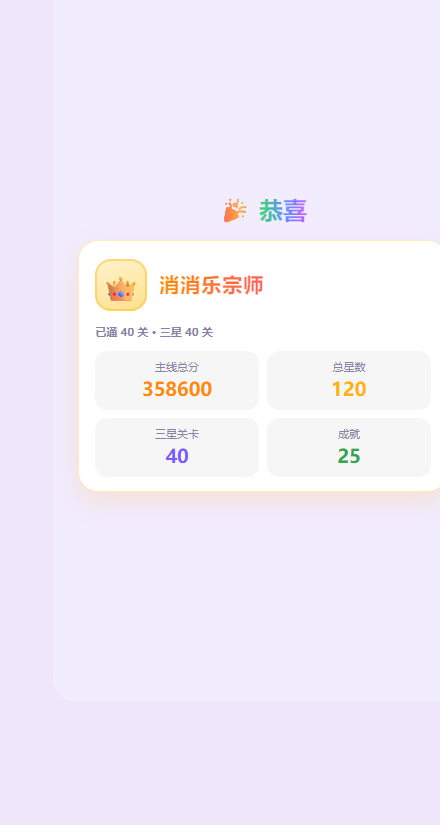
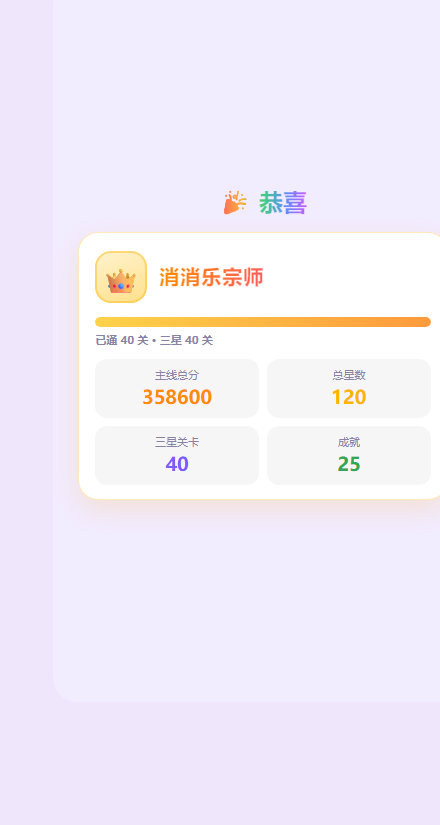
Update files

diff --git a/index.html b/index.html
@@ -12,8 +12,8 @@
 <link rel="preload" as="image" type="image/webp" href="./assets/4.webp">
 <link rel="preload" as="image" type="image/webp" href="./assets/5.webp">
 <link rel="preload" as="image" type="image/png" href="./assets/nailong.png">
-<link rel="stylesheet" href="./css/style.css?v=20261108k">
-<link rel="stylesheet" href="./css/themes.css?v=20261108k">
+<link rel="stylesheet" href="./css/style.css?v=20261108l">
+<link rel="stylesheet" href="./css/themes.css?v=20261108l">
 </head>
 <body data-theme="grass" data-view="menu">
 <div class="game-container">
@@ -768,6 +768,7 @@
           <b id="master-title">消消乐学徒</b>
         </div>
       </div>
+      <div class="master-bar"><span id="master-bar-fill"></span></div>
       <p class="master-progress" id="master-progress">已通 0 关 · 三星 0 关</p>
       <div class="master-grid">
         <div class="master-item"><span>主线总分</span><b id="complete-total-score">0</b></div>
@@ -970,22 +971,22 @@
   </div>
 </div>
 
-<script src="./js/rng.js?v=20261108k"></script>
-<script src="./js/storage.js?v=20261108k"></script>
-<script src="./js/audio.js?v=20261108k"></script>
-<script src="./js/effects.js?v=20261108k"></script>
-<script src="./js/specials.js?v=20261108k"></script>
-<script src="./js/goals.js?v=20261108k"></script>
-<script src="./js/tasks.js?v=20261108k"></script>
-<script src="./js/mail.js?v=20261108k"></script>
-<script src="./js/input.js?v=20261108k"></script>
-<script src="./js/builtin-music.js?v=20261108k"></script>
-<script src="./js/music.js?v=20261108k"></script>
-<script src="./js/meta.js?v=20261108k"></script>
-<script src="./js/cloud-config.js?v=20261108k"></script>
-<script src="./js/cloud.js?v=20261108k"></script>
-<script src="./js/account.js?v=20261108k"></script>
-<script src="./js/board.js?v=20261108k"></script>
-<script src="./js/game.js?v=20261108k"></script>
+<script src="./js/rng.js?v=20261108l"></script>
+<script src="./js/storage.js?v=20261108l"></script>
+<script src="./js/audio.js?v=20261108l"></script>
+<script src="./js/effects.js?v=20261108l"></script>
+<script src="./js/specials.js?v=20261108l"></script>
+<script src="./js/goals.js?v=20261108l"></script>
+<script src="./js/tasks.js?v=20261108l"></script>
+<script src="./js/mail.js?v=20261108l"></script>
+<script src="./js/input.js?v=20261108l"></script>
+<script src="./js/builtin-music.js?v=20261108l"></script>
+<script src="./js/music.js?v=20261108l"></script>
+<script src="./js/meta.js?v=20261108l"></script>
+<script src="./js/cloud-config.js?v=20261108l"></script>
+<script src="./js/cloud.js?v=20261108l"></script>
+<script src="./js/account.js?v=20261108l"></script>
+<script src="./js/board.js?v=20261108l"></script>
+<script src="./js/game.js?v=20261108l"></script>
 </body>
 </html>

diff --git a/test-smoke.js b/test-smoke.js
@@ -2132,13 +2132,14 @@ function check(name, ok) {
       /'auth-menu', 'auth-form', 'fix-menu', 'nick-menu', 'cloud-menu'\]\.indexOf\(ov\.id\) >= 0/
         .test(fs.readFileSync(path.join(__dirname, 'js', 'music.js'), 'utf8'));
   })());
-  check('成绩单：恢复原始形状（无 master-stage 包裹、无底部文案、无进度线）', (() => {
+  check('成绩单：恢复原始形状（无 master-stage 包裹、无底部文案），进度线保留且一直满格', (() => {
     const gc = htmlSrc.slice(htmlSrc.indexOf('id="game-complete"'), htmlSrc.indexOf('id="chapters-menu"'));
     return !gc.includes('master-stage') && !gc.includes('master-foot') &&
-      !gc.includes('master-bar') &&
       !gc.includes('继续闯关') && !gc.includes('满分毕业') &&
+      gc.includes('master-bar') &&
       !/#game-complete \.master-stage \{/.test(cssSrc) && !/\.master-foot \{/.test(cssSrc) &&
-      !/\.master-bar \{/.test(cssSrc) && !/master-bar-fill/.test(jsSrc);
+      /\.master-bar span\s*\{[^}]*width:\s*100%/.test(cssSrc) &&
+      !/master-bar-fill/.test(jsSrc);
   })());
   check('每日任务尽量不重样：上一批出过的排到候选队尾，通常整批换新', (() => {
     const saved = lsMap.get('nl2:tasks');
@@ -2241,7 +2242,8 @@ function check(name, ok) {
   check('成绩单标题改成「🎉 恭喜」，没有副标题、四格数字都滚动', (() => {
     const fn = jsSrc.slice(jsSrc.indexOf('function showCompletePanel'), jsSrc.indexOf('function levelHasCandy'));
     return !htmlSrc.includes('恭喜全通关') && htmlSrc.includes('🎉 恭喜') &&
-      htmlSrc.includes('id="master-title"') && !htmlSrc.includes('id="master-bar-fill"') &&
+      htmlSrc.includes('id="master-title"') &&
+      htmlSrc.includes('id="master-bar-fill"') &&
       htmlSrc.includes('id="complete-total-score"') && htmlSrc.includes('id="complete-total-stars"') &&
       htmlSrc.includes('id="master-perfect"') && htmlSrc.includes('id="master-ach"') &&
       !htmlSrc.includes('id="master-sub"') && !fn.includes('master-sub') &&

diff --git a/css/themes.css b/css/themes.css
@@ -2151,8 +2151,23 @@ body[data-skin="black"]   { --skin-target-bg: rgba(255, 143, 171, 0.22); }
   font-size: 11px;
   color: #9a93ad;
 }
+.master-bar {
+  height: 10px;
+  margin: 14px 0 6px;
+  border-radius: 999px;
+  background: rgba(0, 0, 0, 0.06);
+  overflow: hidden;
+}
+/* 这条线一直是满的（不是进度指示） */
+.master-bar span {
+  display: block;
+  height: 100%;
+  width: 100%;
+  border-radius: 999px;
+  background: linear-gradient(90deg, #ffd24a, #ff9a3c);
+}
 .master-progress {
-  margin: 14px 0 12px;
+  margin: 0 0 12px;
   font-size: 11px;
   font-weight: 700;
   color: #8a82a6;

diff --git a/_preview/master-titles.html b/_preview/master-titles.html
@@ -40,6 +40,7 @@ TITLES.forEach((t) => {
     '<div class="master-card">' +
       '<div class="master-head"><span class="master-crown">' + t.crown + '</span>' +
       '<div class="master-title-box"><b>' + t.name + '</b></div></div>' +
+      '<div class="master-bar"><span></span></div>' +
       '<p class="master-progress">已通 ' + t.cleared + ' 关 · 三星 ' + t.perfect + ' 关</p>' +
       '<div class="master-grid">' +
         '<div class="master-item"><span>主线总分</span><b>' + t.score + '</b></div>' +

diff --git a/README.md b/README.md
@@ -31,7 +31,7 @@
 - **糖果货物（第四章开始）**：运送关（`cargo > 0`）的货物从 **id ≥ 31（第四章）** 起混入糖果：`putCargo` 一半钥匙 + 一半糖果（`placeObstacles` 里按 `Math.ceil/floor` 拆分），糖果徽标 `drawCandyMark()` 纯 Canvas 路径画（圆糖体 + 两端分叉糖纸 + 斜条纹 + 黑描边 + 粉色呼吸光），送达浮字是「送达 🍬」。目标数照常按「总送达数」算（`syncGoalFromBoard` 里糖果和钥匙同走 `else` 分支），目标栏文案在 `S.goal.hasCandy` 时从「运送钥匙」换成「运送糖果 🍬」（`goals.js barText`）。
 - **货物掉落规则（2026-11-07 二次修改）**：货物所在方块被消时，它**落到本列下面离它最近的一个没被消掉的方块上**（`resolveClear` 里在 `dropAndFill()` 之前落位——放在重力后面找就只能找到最底行，会退化成直接送达），之后跟着那个方块被重力一步步往下带，真的到了最底行（`collectCargo`）才算送达；**被消的那一刻下面一个方块都没有（整列空了）才直接算运送成功**。送达结算统一走新抽出的 `deliverCargo(items, c)`（浮字 / 音效 / `cargoLeft` / 目标推进），底行收集和「无方块直送」共用这一份。旧的「直达最底行 = 直接送达」逻辑和测试（17c / 26）已按新规则改写，并补了「整列没方块直送」的测试（26b）。
 - **运送进度存档恢复**：暂停 / 中途退出再续玩，目标栏仍是原来的进度（如「运送钥匙 1/7」），不会变成「棋盘上有几个就 0/几」——`saveRun` 的 `goalCurrent` 现在连 `iceCleared` / `cargoGot` / `rescueGot` 一起存，`loadRun` 原样恢复后再 `syncGoalFromBoard()`（target = 已送达 + 场上剩），不再把已送达数清零重算；没有这些字段的老存档保持旧的清零兜底。
-- **「🎉 恭喜」成绩单（2026-11-08 三改）**：结算画面不再是「恭喜全通关」的毕业页——关卡记录右下角常驻的「结算」键（`#btn-replay-ending`，小号黄色胶囊，右下角 16px）随时能进来，所以页面标题就叫 **🎉 恭喜**，做成一份随时可看的主线成绩单：称号（学徒 → 新星 → 达人 → 高手 → 大师 → 全三星「宗师」，不再带副标题一句话）+ 四格数据（主线总分 / 总星数 / 三星关卡 / 成就点亮数，**四个数字全部 900ms 同时长滚动**）。**页面只有标题 + 一张白卡片，卡片保持原来的形状（88% 宽 / 20px 圆角 / 原内边距，不额外包裹、不改尺寸）**，卡片垂直居中、标题在卡片上方；**没有进度线**（按你的要求已删）、**没有底部文案**。**文案里不写「/ 总数」也不写毕业口吻**：进度写「已通 X 关 · 三星 X 关」，三星关卡和成就只写自己拿到的数。数据每次打开都按最新存档现算（`showCompletePanel`）。最后一关打完也不再自动弹这个画面；面板上没有「回到主页」键，点任意处退出回「关卡记录」。
+- **「🎉 恭喜」成绩单（2026-11-08 三改）**：结算画面不再是「恭喜全通关」的毕业页——关卡记录右下角常驻的「结算」键（`#btn-replay-ending`，小号黄色胶囊，右下角 16px）随时能进来，所以页面标题就叫 **🎉 恭喜**，做成一份随时可看的主线成绩单：称号（学徒 → 新星 → 达人 → 高手 → 大师 → 全三星「宗师」，不再带副标题一句话）+ 橙色横线 + 四格数据（主线总分 / 总星数 / 三星关卡 / 成就点亮数，**四个数字全部 900ms 同时长滚动**）。**页面只有标题 + 一张白卡片，卡片保持原来的形状（88% 宽 / 20px 圆角 / 原内边距，不额外包裹、不改尺寸）**，卡片垂直居中、标题在卡片上方；卡片里那条橙色横线**保留且一直是满格**（只作装饰，不代表进度，`width: 100%`、没有动画）；**没有底部文案**。**文案里不写「/ 总数」也不写毕业口吻**：进度写「已通 X 关 · 三星 X 关」，三星关卡和成就只写自己拿到的数。数据每次打开都按最新存档现算（`showCompletePanel`）。最后一关打完也不再自动弹这个画面；面板上没有「回到主页」键，点任意处退出回「关卡记录」。
 - **榜单列对齐（2026-11-08 改固定列）**：榜单行不再用 flex（名字长短 / 星星位数会把后面的列挤偏），改成**固定列宽的 grid**：`.lb-swipe.col4` = 名次 26px · 名字自适应 · 42px 空档 · 星星 40px · 分数 **6ch**，列间 8px；星星列、分数列内容都左对齐 → **星星左边缘一条竖线、分数左边缘一条竖线**，任何名字、任何位数都不会挤偏。中间的空档让**星星和分数整体往右挪**（28px 空档 = 三个字，之后**又把星星列再往右挪了「榜一星星与分数空档的一半」≈ 14px**：空档 28→42、星星列 54→40）。**分数列宽 = 6ch（六位数的榜一正好填满整列）**：榜一（最高分 = 最宽分数）的右缘贴住行内边距——「榜一分数右缘距行背景右边缘 12px」和左边「名次距行背景左边缘 12px」**左右对称**；空星行的星星格也占位，「未上榜」写在分数列里。后台名单（col5）同款：空档 24→34、星星列 48→38。
 - **名字长度**：客户端 `Meta.validateNick` 与服务端 `NICK_MAX` 都是 **1~8 个字符**（一个字母或符号各算一个，提示统一写「1~8 个字符」）。
 - **结算音效与画面同拍**：通关 `levelWin` 的星星音效、失败 `endGame` 的 gameover 音效都改为**在结算面板 `display:flex` 之后**才播（`winSfx()` / `endSfx()`，无面板时兜底直接播）；之前是提前 180ms 或特效等待前就响，听着比画面早半拍。
